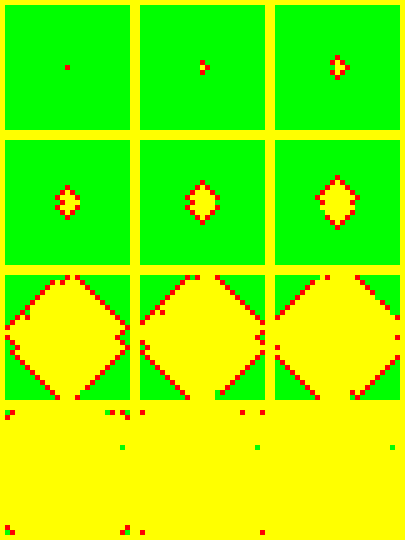
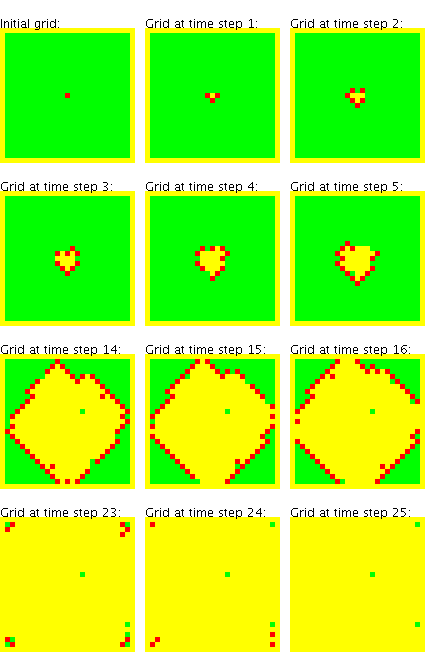
added labels to .png files

diff --git a/src/FireSimulation.java b/src/FireSimulation.java
@@ -211,8 +211,9 @@ public class FireSimulation {
         //each column has four grid
         //12 grids in PNG file
         int gridHeight = grids.get(0).length, gridWidth = grids.get(0)[0].length;
-        int width = cellLength * gridWidth*3;
-        int height = cellLength * gridHeight*4;
+        Font font = new Font(Font.SANS_SERIF, Font.BOLD, 24);
+        int width = cellLength * gridWidth*3 + 20;
+        int height = cellLength * gridHeight*4 + (font.getSize()+4)*4;
 
         BufferedImage bufferedImage = new BufferedImage(width, height, BufferedImage.TYPE_INT_RGB);
         Graphics2D g2d = bufferedImage.createGraphics();
@@ -239,23 +240,44 @@ public class FireSimulation {
                 frameNum.add(i);
             }
         }
-        System.out.println("FRAME LENGTH-------------------------"+frameNum.size());
         int nextX = 0;
         int nextY = 0;
+        int spaceY = font.getSize() + 4;
+        int spaceX = 0;
+        int locationX=0;
+        int locationY=0;
+        String label;
+
         for(int j:frameNum) {
-            System.out.println("j-----------"+j);
+
             for(int y = 0; y<gridHeight; y++){
                 for(int x = 0; x<gridWidth; x++){
+                    locationX = (x+nextX) * cellLength + spaceX;
+                    locationY = (y+nextY) * cellLength + spaceY;
                     g2d.setColor(colors[grids.get(j)[x][y].getState()]);
-                    g2d.fillRect((x+nextX) * cellLength, (y+nextY) * cellLength, cellLength, cellLength);
+                    g2d.fillRect(locationX, locationY, cellLength, cellLength);
 
                 }
             }
+
             nextX+=gridWidth;
+            spaceX+=10;
             if(nextX == gridWidth * 3){
                 nextX = 0;
                 nextY += gridHeight;
+                spaceY += font.getSize() + 4;
+                spaceX = 0;
+
             }
+            g2d.setColor(Color.black);
+            if(j == frameNum.get(0)){
+                label = "Initial grid:";
+            }else{
+                label = "Grid at time step "+j+":";
+            }
+            g2d.drawString(label, locationX+cellLength-(gridWidth*cellLength),
+                    locationY+cellLength-gridHeight*cellLength);
+
         }
 
         g2d.dispose();
